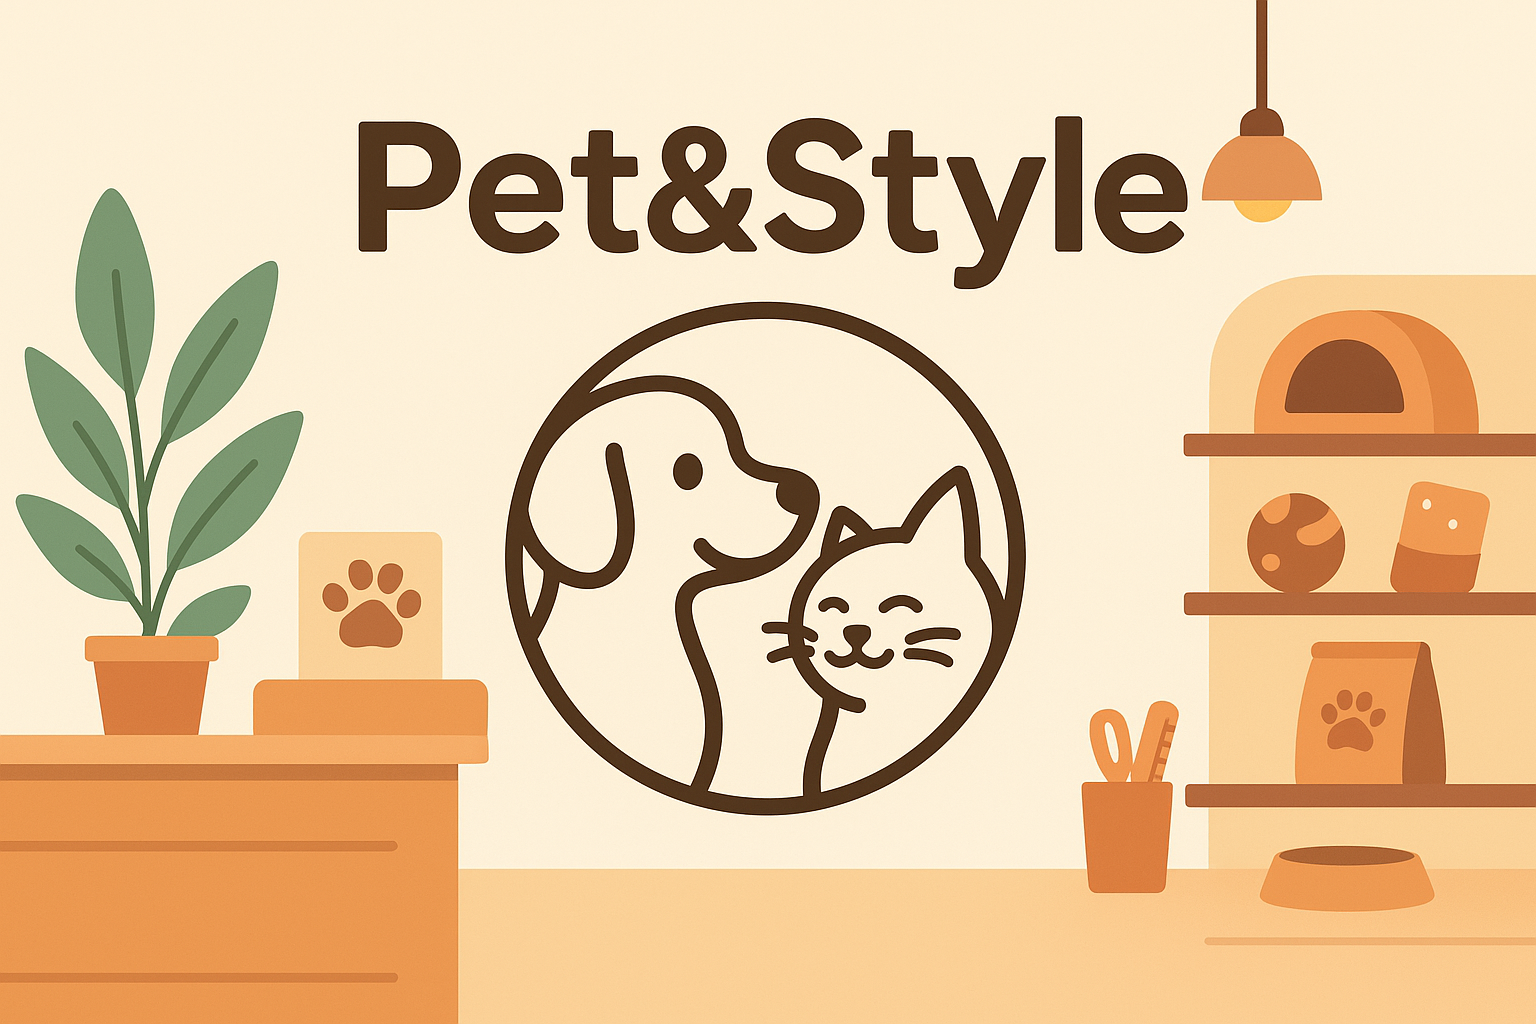
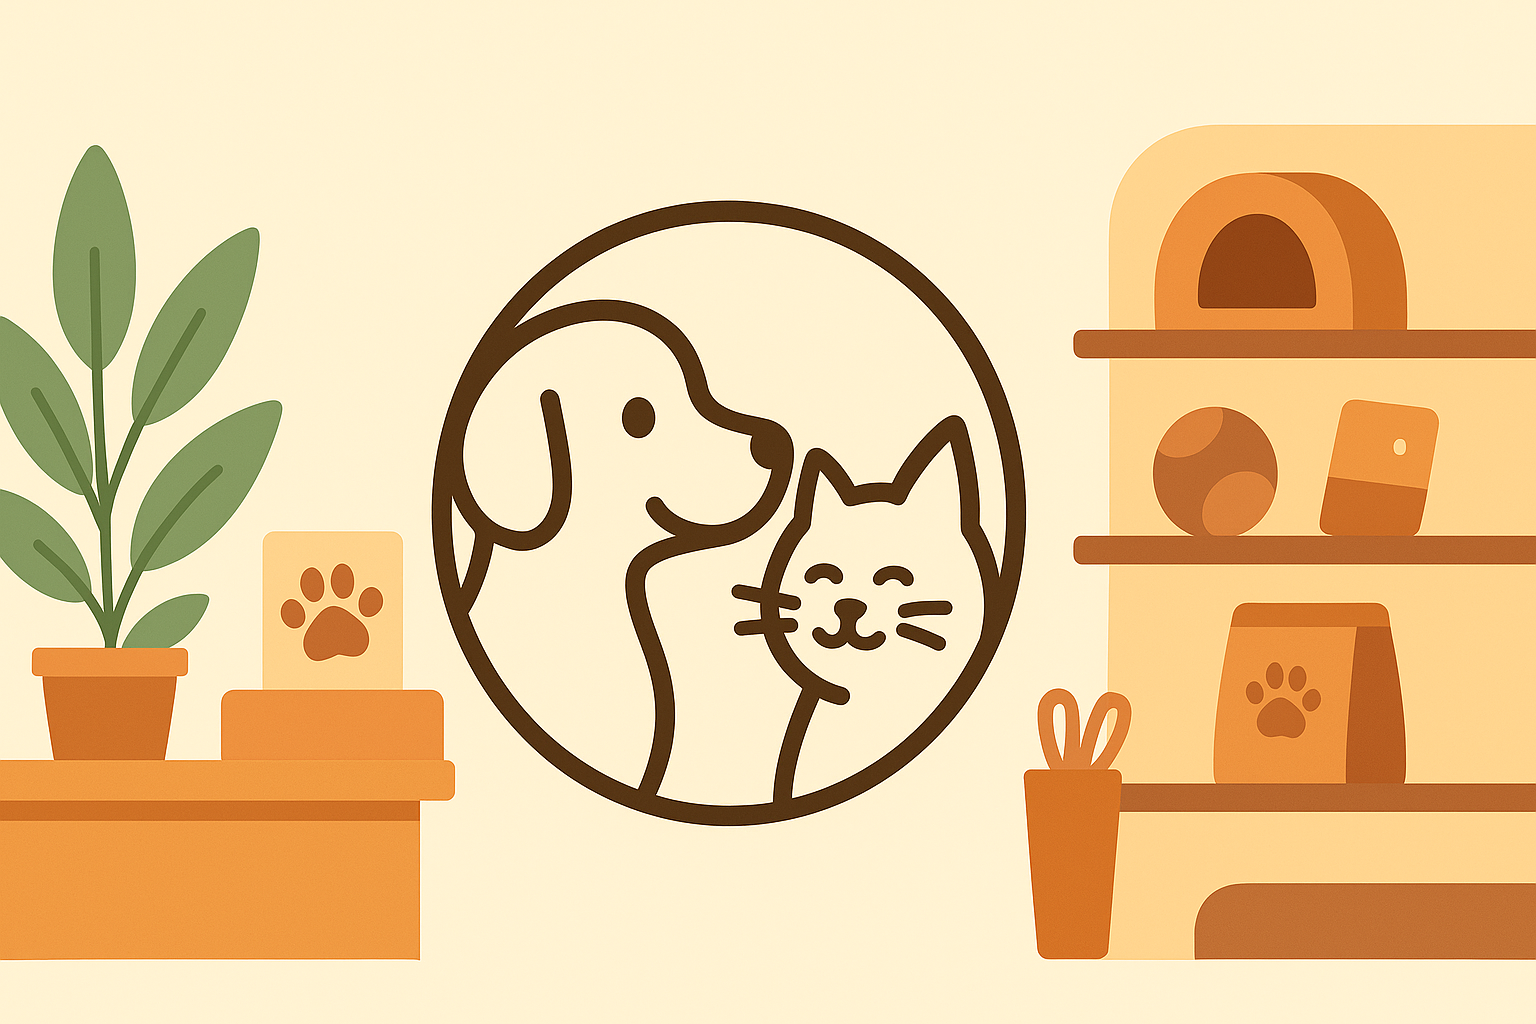
Adicionando estilos para a classe .bg-home e atualizando a imagem de fundo

diff --git a/CSS/output.css b/CSS/output.css
@@ -9,9 +9,14 @@
       "Courier New", monospace;
     --color-gray-50: oklch(98.5% 0.002 247.839);
     --color-gray-100: oklch(96.7% 0.003 264.542);
+    --color-gray-300: oklch(87.2% 0.01 258.338);
     --spacing: 0.25rem;
+    --text-4xl: 2.25rem;
+    --text-4xl--line-height: calc(2.5 / 2.25);
     --font-weight-normal: 400;
     --font-weight-semibold: 600;
+    --font-weight-bold: 700;
+    --radius-2xl: 1rem;
     --ease-in-out: cubic-bezier(0.4, 0, 0.2, 1);
     --default-transition-duration: 150ms;
     --default-transition-timing-function: cubic-bezier(0.4, 0, 0.2, 1);
@@ -174,6 +179,9 @@
   .relative {
     position: relative;
   }
+  .top-0 {
+    top: calc(var(--spacing) * 0);
+  }
   .top-\[127px\] {
     top: 127px;
   }
@@ -186,14 +194,38 @@
   .z-50 {
     z-index: 50;
   }
+  .container {
+    width: 100%;
+    @media (width >= 40rem) {
+      max-width: 40rem;
+    }
+    @media (width >= 48rem) {
+      max-width: 48rem;
+    }
+    @media (width >= 64rem) {
+      max-width: 64rem;
+    }
+    @media (width >= 80rem) {
+      max-width: 80rem;
+    }
+    @media (width >= 96rem) {
+      max-width: 96rem;
+    }
+  }
   .flex {
     display: flex;
   }
   .hidden {
     display: none;
   }
+  .table {
+    display: table;
+  }
   .h-10 {
     height: calc(var(--spacing) * 10);
+  }
+  .h-\[82vh\] {
+    height: 82vh;
   }
   .w-10 {
     width: calc(var(--spacing) * 10);
@@ -201,17 +233,32 @@
   .w-30 {
     width: calc(var(--spacing) * 30);
   }
+  .w-\[40\%\] {
+    width: 40%;
+  }
+  .w-\[45\%\] {
+    width: 45%;
+  }
+  .w-\[50\%\] {
+    width: 50%;
+  }
   .w-auto {
     width: auto;
   }
   .w-full {
     width: 100%;
   }
+  .border-collapse {
+    border-collapse: collapse;
+  }
   .rotate-90 {
     rotate: 90deg;
   }
   .cursor-pointer {
     cursor: pointer;
+  }
+  .resize {
+    resize: both;
   }
   .flex-col {
     flex-direction: column;
@@ -221,6 +268,18 @@
   }
   .justify-between {
     justify-content: space-between;
+  }
+  .justify-center {
+    justify-content: center;
+  }
+  .gap-2 {
+    gap: calc(var(--spacing) * 2);
+  }
+  .gap-4 {
+    gap: calc(var(--spacing) * 4);
+  }
+  .gap-5 {
+    gap: calc(var(--spacing) * 5);
   }
   .space-y-4 {
     :where(& > :not(:last-child)) {
@@ -236,8 +295,15 @@
       margin-inline-end: calc(calc(var(--spacing) * 14) * calc(1 - var(--tw-space-x-reverse)));
     }
   }
+  .rounded-2xl {
+    border-radius: var(--radius-2xl);
+  }
   .rounded-\[10px\] {
     border-radius: 10px;
+  }
+  .border {
+    border-style: var(--tw-border-style);
+    border-width: 1px;
   }
   .bg-gray-50 {
     background-color: var(--color-gray-50);
@@ -245,22 +311,58 @@
   .bg-gray-100 {
     background-color: var(--color-gray-100);
   }
+  .bg-gray-300 {
+    background-color: var(--color-gray-300);
+  }
+  .px-5 {
+    padding-inline: calc(var(--spacing) * 5);
+  }
   .px-25 {
     padding-inline: calc(var(--spacing) * 25);
   }
   .py-1 {
     padding-block: calc(var(--spacing) * 1);
   }
+  .py-3 {
+    padding-block: calc(var(--spacing) * 3);
+  }
   .py-4 {
     padding-block: calc(var(--spacing) * 4);
+  }
+  .py-5 {
+    padding-block: calc(var(--spacing) * 5);
+  }
+  .pt-\[84px\] {
+    padding-top: 84px;
+  }
+  .text-4xl {
+    font-size: var(--text-4xl);
+    line-height: var(--tw-leading, var(--text-4xl--line-height));
+  }
+  .text-\[1\.3rem\] {
+    font-size: 1.3rem;
+  }
+  .font-bold {
+    --tw-font-weight: var(--font-weight-bold);
+    font-weight: var(--font-weight-bold);
   }
   .font-normal {
     --tw-font-weight: var(--font-weight-normal);
     font-weight: var(--font-weight-normal);
   }
+  .underline {
+    text-decoration-line: underline;
+  }
+  .opacity-75 {
+    opacity: 75%;
+  }
   .shadow-md {
     --tw-shadow: 0 4px 6px -1px var(--tw-shadow-color, rgb(0 0 0 / 0.1)), 0 2px 4px -2px var(--tw-shadow-color, rgb(0 0 0 / 0.1));
     box-shadow: var(--tw-inset-shadow), var(--tw-inset-ring-shadow), var(--tw-ring-offset-shadow), var(--tw-ring-shadow), var(--tw-shadow);
+  }
+  .outline {
+    outline-style: var(--tw-outline-style);
+    outline-width: 1px;
   }
   .transition-transform {
     transition-property: transform, translate, scale, rotate;
@@ -308,6 +410,26 @@
 .font-popins {
   font-family: "Poppins", sans-serif;
 }
+.bg-home {
+  position: relative;
+  background: url("../assets/imagem-loja.png") no-repeat center center;
+  background-size: cover;
+  height: 82vh;
+}
+.bg-home::before {
+  content: "";
+  position: absolute;
+  top: 0;
+  left: 0;
+  width: 100%;
+  height: 100%;
+  background-color: rgba(0, 0, 0, 0.5);
+  z-index: 1;
+}
+.bg-home * {
+  position: relative;
+  z-index: 2;
+}
 @property --tw-space-y-reverse {
   syntax: "*";
   inherits: false;
@@ -317,6 +439,11 @@
   syntax: "*";
   inherits: false;
   initial-value: 0;
+}
+@property --tw-border-style {
+  syntax: "*";
+  inherits: false;
+  initial-value: solid;
 }
 @property --tw-font-weight {
   syntax: "*";
@@ -387,6 +514,11 @@
   inherits: false;
   initial-value: 0 0 #0000;
 }
+@property --tw-outline-style {
+  syntax: "*";
+  inherits: false;
+  initial-value: solid;
+}
 @property --tw-duration {
   syntax: "*";
   inherits: false;
@@ -400,6 +532,7 @@
     *, ::before, ::after, ::backdrop {
       --tw-space-y-reverse: 0;
       --tw-space-x-reverse: 0;
+      --tw-border-style: solid;
       --tw-font-weight: initial;
       --tw-shadow: 0 0 #0000;
       --tw-shadow-color: initial;
@@ -415,6 +548,7 @@
       --tw-ring-offset-width: 0px;
       --tw-ring-offset-color: #fff;
       --tw-ring-offset-shadow: 0 0 #0000;
+      --tw-outline-style: solid;
       --tw-duration: initial;
       --tw-ease: initial;
     }

diff --git a/CSS/style.css b/CSS/style.css
@@ -3,3 +3,26 @@
 .font-popins {
   font-family: "Poppins", sans-serif;
 }
+
+.bg-home {
+  position: relative;
+  background: url("../assets/imagem-loja.png") no-repeat center center;
+  background-size: cover;
+  height: 82vh; /* altura que você quiser */
+}
+
+.bg-home::before {
+  content: "";
+  position: absolute;
+  top: 0;
+  left: 0;
+  width: 100%;
+  height: 100%;
+  background-color: rgba(0, 0, 0, 0.5); /* escurece a imagem (0.5 = 50%) */
+  z-index: 1;
+}
+
+.bg-home * {
+  position: relative;
+  z-index: 2; /* garante que o conteúdo fique acima do overlay */
+}
